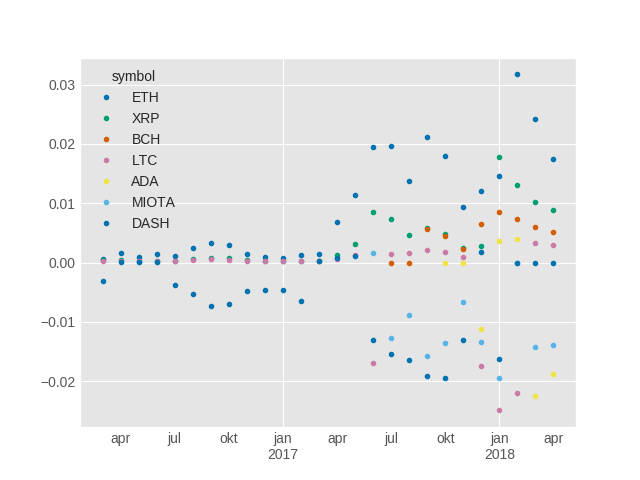
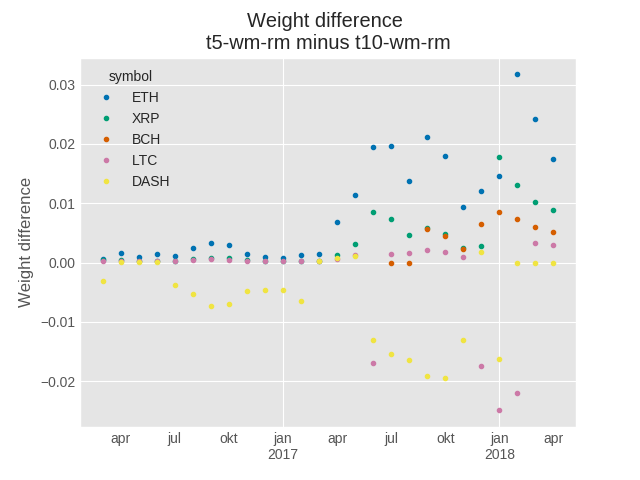
add plt.close(); plt.clf() to all plots.

diff --git a/py/9-bsk_wei.py b/py/9-bsk_wei.py
@@ -1,7 +1,7 @@
 ## effect of caps and floors
 
 plt.clf()
-plt.close()
+plt.close(); plt.clf()
 
 # plot 1
 r8.name, r1.name
@@ -13,14 +13,14 @@ ytext1 = 'Weight difference: \n floored & capped minus regular'
 plt.title(title1)
 plt.ylabel(ytext1)
 plt.savefig('output/bsk/wei/capsfloors_effect_1_alts.png')
-plt.close()
+plt.close(); plt.clf()
 
 # plot 2
 wd.loc['2017':, 'BTC'].plot(color='orange')
 plt.title(title1)
 plt.ylabel('Weight difference for BTC')
 plt.savefig('output/bsk/wei/capsfloors_effect_1_BTC.png')
-plt.close()
+plt.close(); plt.clf()
 
 # mean
 wd_mean = wd.mean(axis=0).round(3)
@@ -51,7 +51,7 @@ plt.title('Effect of smoothing')
 plt.ylabel('Ticker')
 plt.xlabel('Mean of abs(Smoothed weight minus raw weight)')
 plt.savefig('output/bsk/wei/smoothing_w1.png')
-plt.close()
+plt.close(); plt.clf()
 
 w_diff_1.to_csv('output/bsk/wei/w smooth minus w raw, abs(mean()).csv')
 
@@ -103,7 +103,7 @@ vol_5vs10_mat.drop('Diff',axis=1).rolling(30).mean().plot()
 plt.ylabel('Trading volume in USD \n Rolling 30 days mean')
 plt.title('Trading volume per asset')
 plt.savefig('output/bsk/wei/volume_5vs10_1.png')
-plt.close()
+plt.close(); plt.clf()
 
 ## back of the envelope re 10 vs 5 trading volume
 
@@ -214,7 +214,7 @@ plt.title('Turnover ' + r1.name)
 ylabel1 = 'Turnover: trading needed to rebalance'
 plt.ylabel(ylabel1)
 plt.savefig('output/bsk/wei/turnover_1.png')
-plt.close()
+plt.close(); plt.clf()
 
 # plot 2
 turno4 = turnover(rebalance_trade(w4))
@@ -228,7 +228,7 @@ plt.title('Turnover comparison')
 plt.ylabel(ylabel1)
 plt.axhline(y=turno1vs4.mean(), color='grey', alpha=0.5)
 plt.savefig('output/bsk/wei/turnover_2.png')
-plt.close()
+plt.close(); plt.clf()
 
 ## coin switsches
 
@@ -273,7 +273,7 @@ def plot_coinswitch(coinswitch_vec, rname='', filename='', show=False):
     plt.savefig('output/bsk/wei/coinswitches' + filename + '.png')
   if show:
     plt.show()
-  plt.close()
+  plt.close(); plt.clf()
 
 # plot a few baskets coin switches
 plot_coinswitch(coinswitch_vec=coinswitch(w1m), rname=r1.name, filename='1')
@@ -302,7 +302,9 @@ csw_1vs4.plot(style=['o', 'x'])
 (csw_1minus4 == 0).any()
 plt.yticks(np.arange(-1, 4))
 plt.savefig('output/bsk/wei/coinswitches_bsk1_minus_bsk4.png')
-plt.close()
+plt.ylabel('Difference in number of coins')
+plt.title('Coinswitches')
+plt.close(); plt.clf()
 
 ## export members and wei for SL
 
@@ -360,14 +362,16 @@ tkr_sel_2 = ['BTC', 'ETH', 'XRP']
 # plot 1
 w1m[tkr_sel_2].plot.area(alpha=0.5)
 plt.ylabel('Weight')
-plt.title('Weight per asset \n basket ' + r1.name)
+plt.title('Weight per asset \n' + r1.name)
 plt.savefig('output/bsk/wei/w1_area.png')
+plt.close(); plt.clf()
 
 # plot 4
 w4m[tkr_sel_2].plot.area(alpha=0.5)
 plt.ylabel('Weight')
-plt.title('Weight per asset \n basket ' + r4.name)
+plt.title('Weight per asset \n' + r4.name)
 plt.savefig('output/bsk/wei/w4_area.png')
+plt.close(); plt.clf()
 
 # plot 1 vs 4
 w4_minusw_1m = w4m - w1m
@@ -375,11 +379,11 @@ w4_minusw_1m[tkr_sel_2].plot()
 plt.title('Weight in ' + r4.name + ' minus ' + r1.name)
 plt.ylabel('Weight difference')
 plt.savefig('output/bsk/wei/w4-w1_area.png')
-plt.close()
+plt.close(); plt.clf()
 
 # plot w per asset w/o btc for basket 1 and 4
-tkr_t10_top7 = w1m.mean().nlargest(8)
-tkr_t5_top7 = w4m.mean().nlargest(8)
+tkr_t10_top7 = w1m.sum().nlargest(8)
+tkr_t5_top7 = w4m.sum().nlargest(8)
 # make sure colors are the same in both
 tkr_top7_common = pd.concat([tkr_t10_top7, tkr_t5_top7], 1)
 tkr_top7_common = tkr_top7_common.sort_values(0, ascending=False)
@@ -390,16 +394,22 @@ w1m[tkr_top7_common].drop('BTC', axis=1).plot.area(alpha=0.5)
 plt.title(title1 + r1.name)
 plt.ylabel('Weight')
 plt.savefig('output/bsk/wei/w1_alts.png')
+plt.close(); plt.clf()
 
 w4m[tkr_top7_common].drop('BTC', axis=1).plot.area(alpha=0.5)
 plt.title(title1 + r4.name)
 plt.ylabel('Weight')
 plt.savefig('output/bsk/wei/w4_alts.png')
+plt.close(); plt.clf()
 
-w4_minusw_1m[tkr_top7_common].drop('BTC', axis=1).plot(style='.')
+tkr_top6_common = tkr_top7_common[0:6]
+w4_minusw_1m[tkr_top6_common].drop('BTC', axis=1).plot(style='.')
+plt.title('Weight difference \n' + r4.name + ' minus ' + r1.name)
+plt.ylabel('Weight difference')
 plt.savefig('output/bsk/wei/w4-1m_alts.png')
+plt.close(); plt.clf()
+
 w4_minusw_1m[tkr_top7_common].mean().to_csv('output/bsk/wei/w4_minusw_1m_mean.csv')
-plt.close()
 
 ## which asset entered and left
 
@@ -417,10 +427,10 @@ w_times_b.sum(1) # is like turnover
 tkr_insouts_mostwei = w_times_b.abs().sum().nlargest(7)
 tkr_insouts_mostwei.to_csv('output/bsk/wei/tkr_insouts_mostwei_sum.csv')
 wd1[tkr_insouts_mostwei.index].plot(style='.')
-plt.ylabel('Trading needed: \n Weight diff current month vs previous')
-plt.title('Trading needed per asset \n in assets that most often go in/out of basket')
+plt.ylabel('Trading needed = \n Weight current month minus previous')
+plt.title('Trading needed per asset \n in those that most often enter/leave the index')
 plt.savefig('output/bsk/wei/wd1_tkr_insouts_mostwei.png')
-plt.close()
+plt.close(); plt.clf()
 
 # create objects of interest
 run_txt_files = False # get some error now out of bound. todo fix it, worked before. but the output is already saved so not very important.
@@ -460,7 +470,7 @@ if run_txt_files:
 # how much of the total marketcap is covered by top10 and top5?
 mca_mat_1 = pd.concat([m0, m1, m4], axis=1)
 mca_mat_1.plot()
-plt.close()
+plt.close(); plt.clf()
 
 mca_mat_2 = mca_mat_1.div(mca_mat_1.market, axis=0)
 mca_mat_2 = mca_mat_2.drop('market', axis=1)
@@ -470,6 +480,6 @@ mca_mat_2.rolling(20).mean().plot()
 plt.title('Fraction of total market capitalization')
 plt.ylabel('Basket market cap divided by total market cap')
 plt.savefig('output/bsk/wei/mcafr_bsk1bsk4_smooth20.png')
-plt.close()
+plt.close(); plt.clf()
 
 ##
